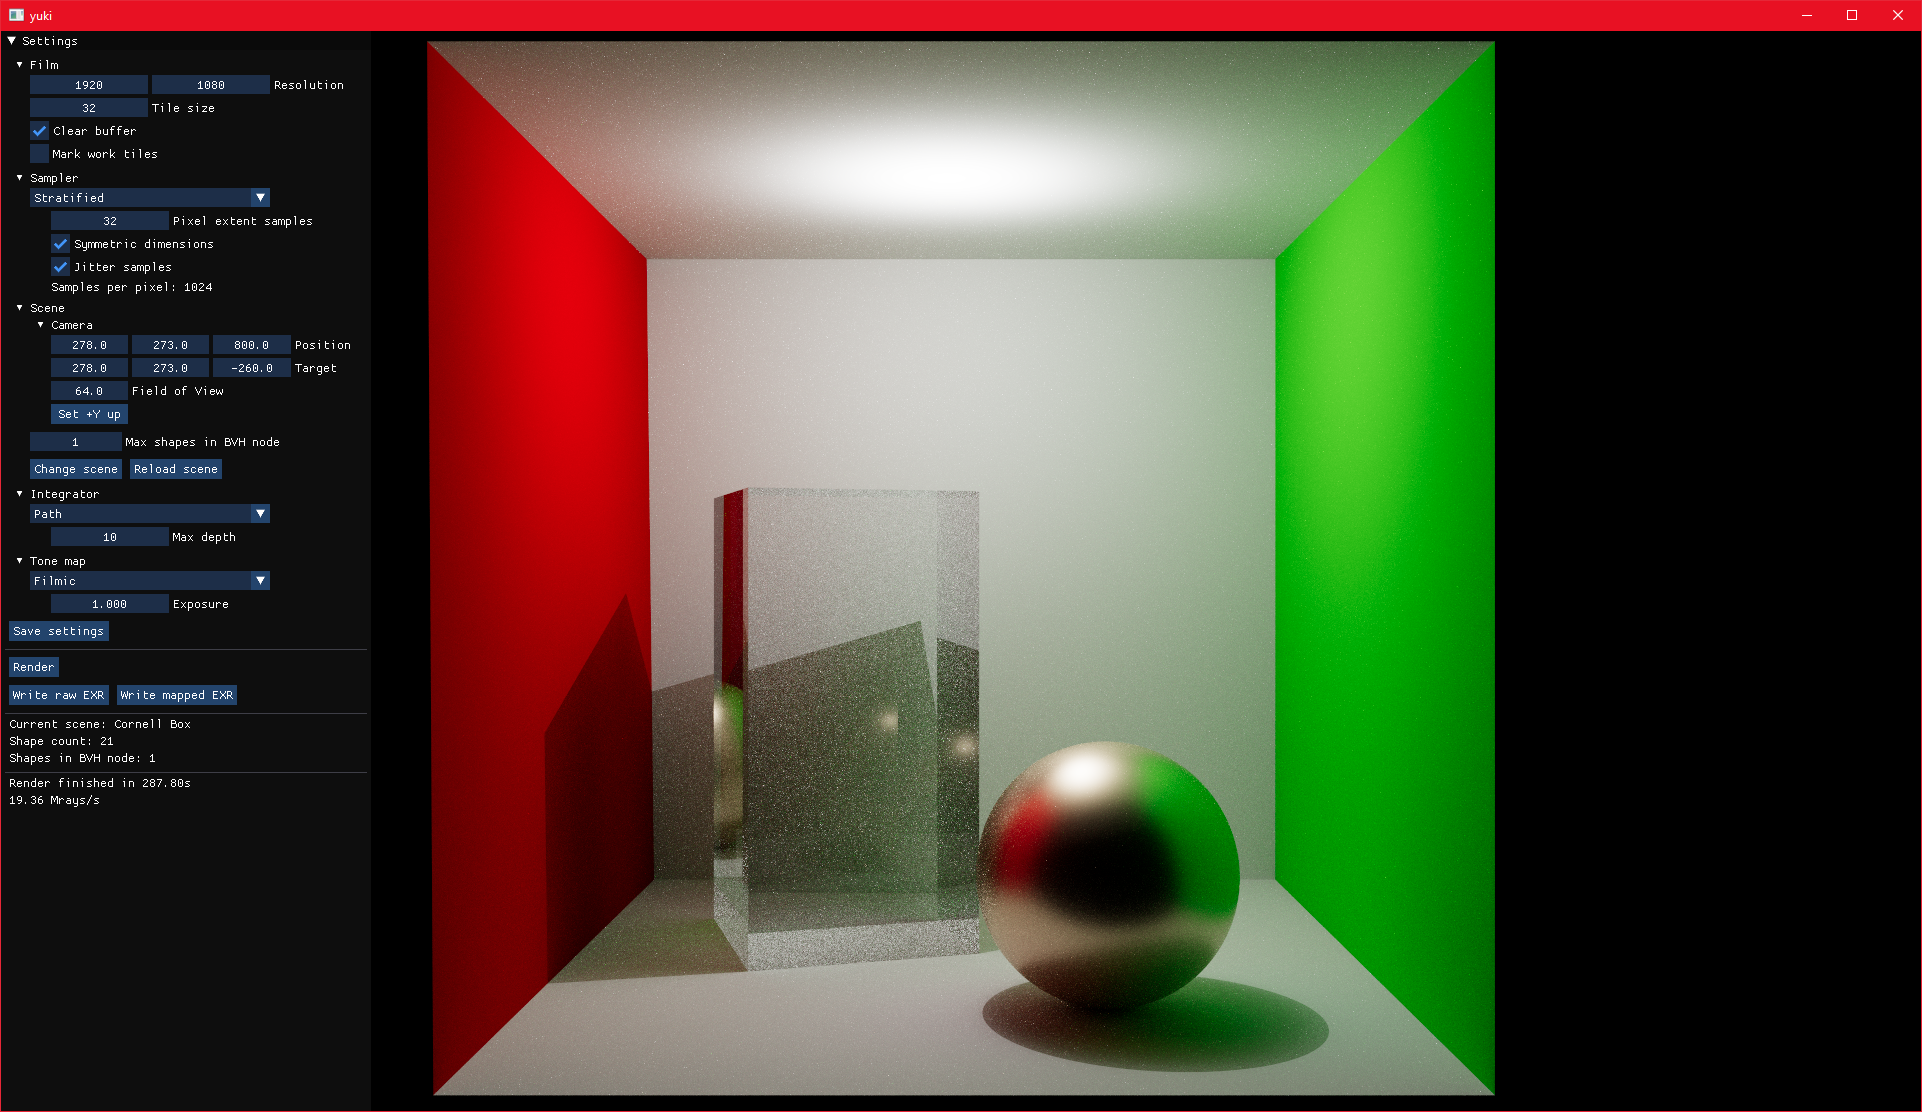
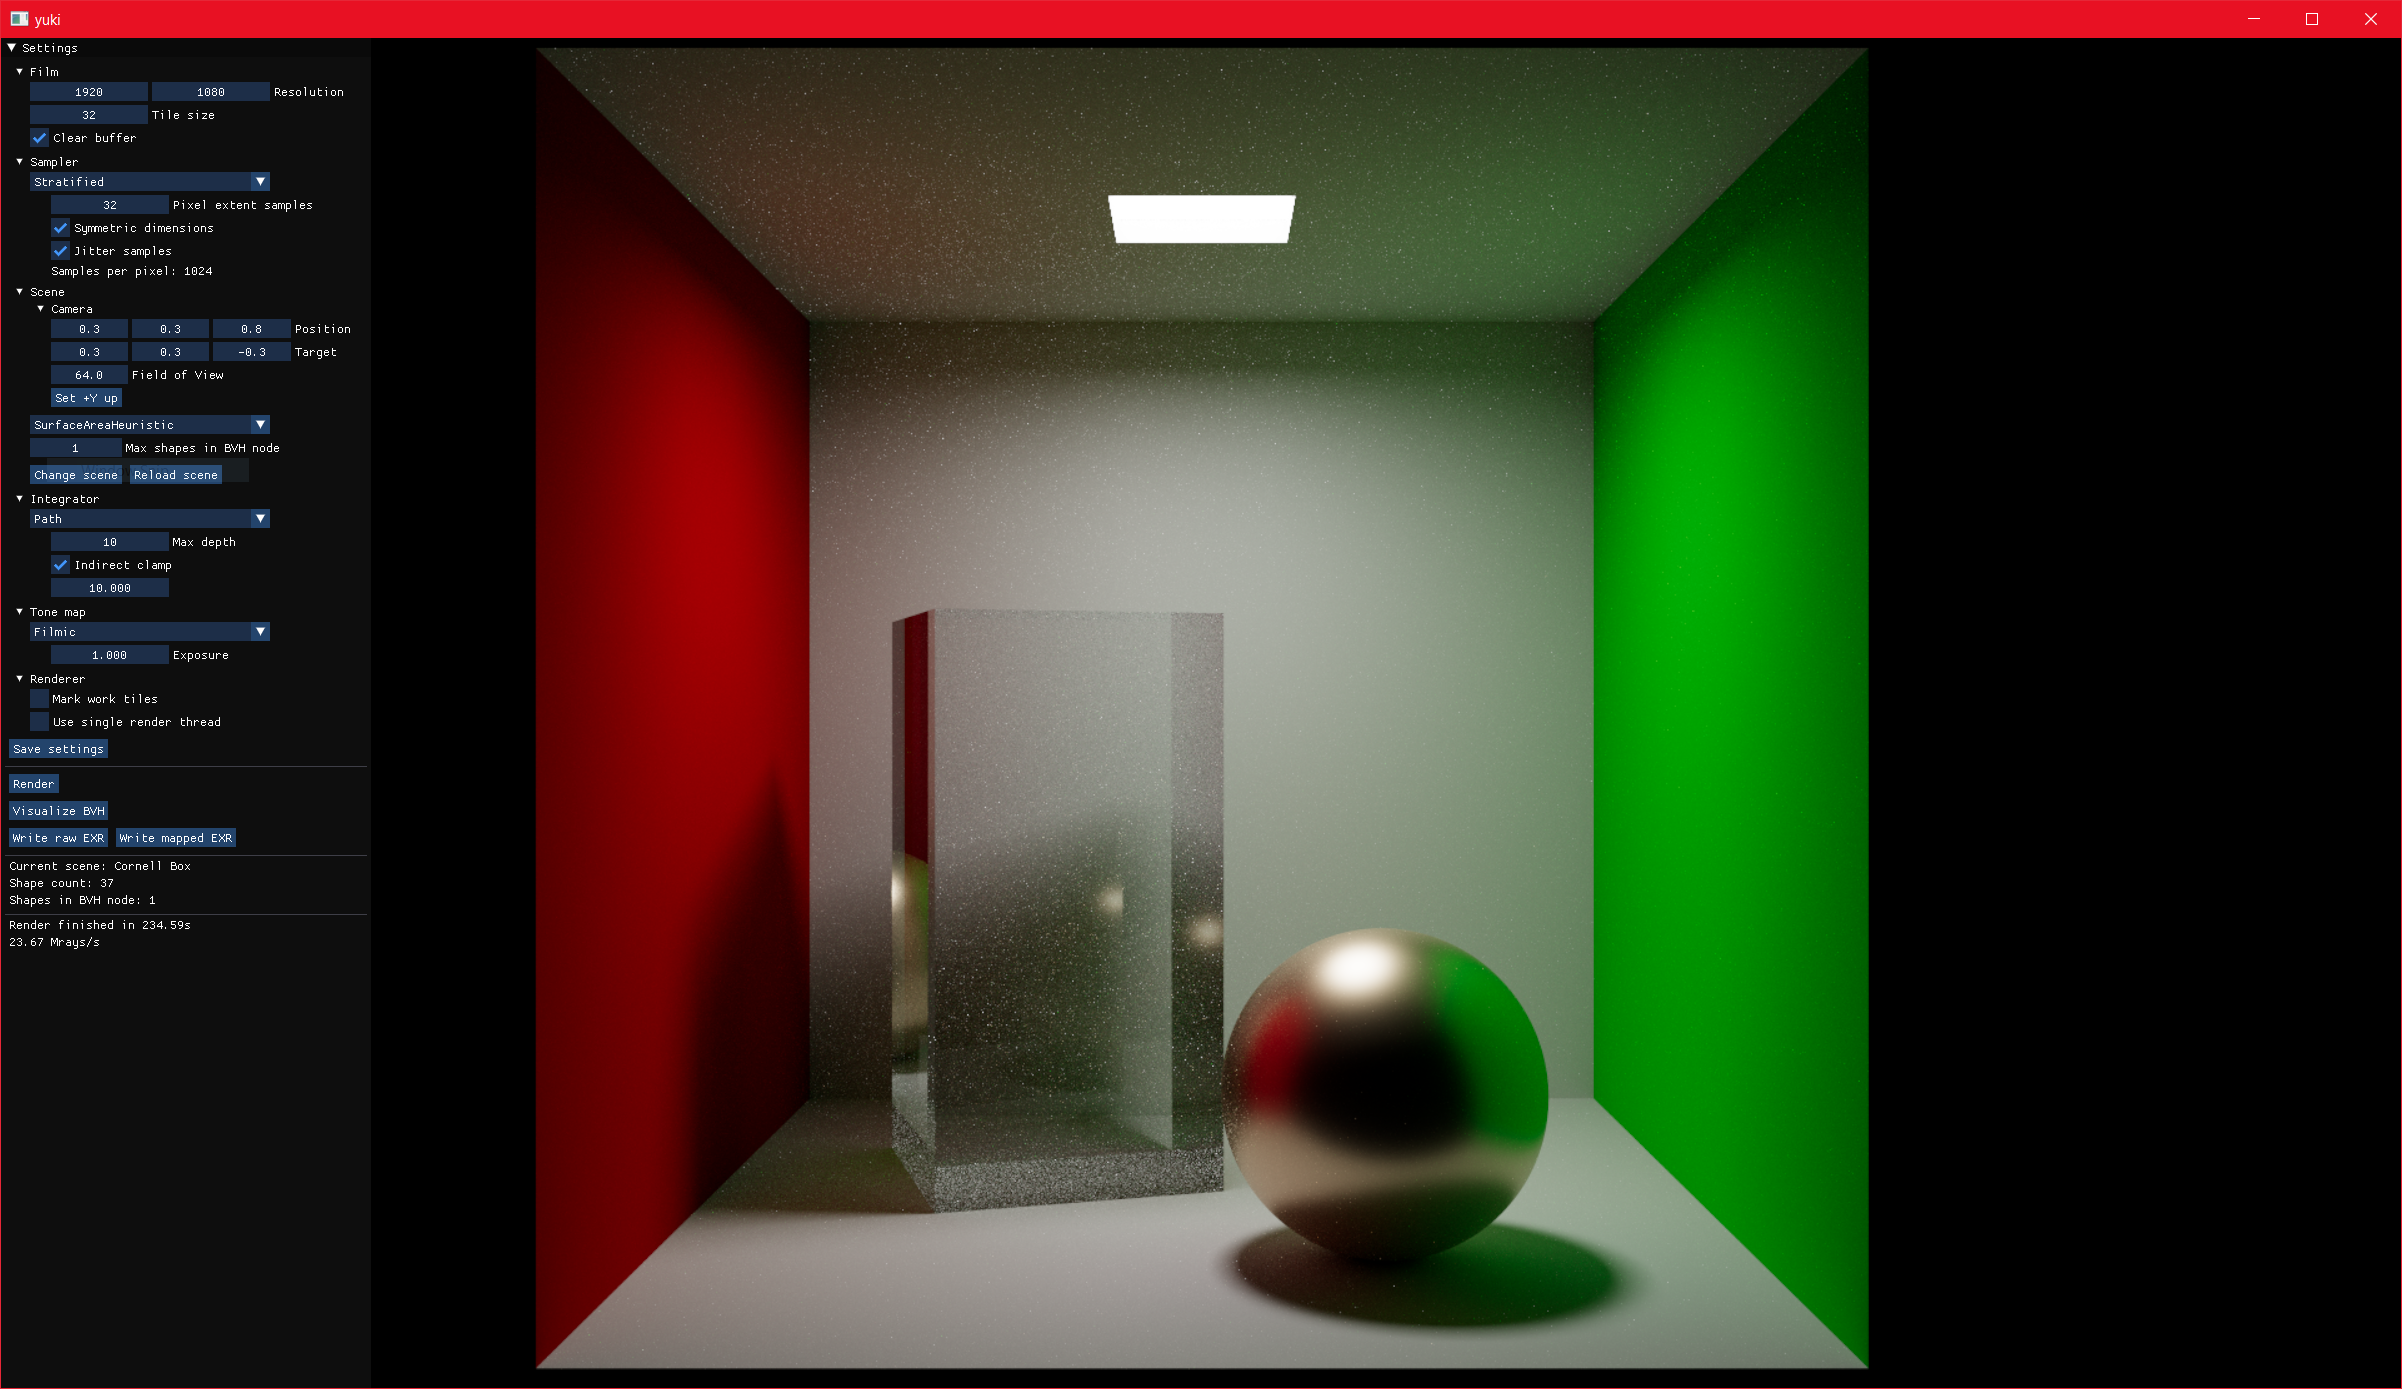
Update readme and screenshot

diff --git a/readme.md b/readme.md
@@ -45,9 +45,13 @@ cd yuki && cargo run --release
 - Tile-based rendering
   - Unwinding spiral pattern
     - Camera controls usable with longer frame times than if rendered row-by-row
-  - Active work tiles are marked
+  - Active work tiles can be marked
     - Not separately cleared when film clear is disabled to minimize lag
 - BVH
+  - Splits
+    - Surface area heuristic
+    - Middle
+    - Equal counts
 - Integrator abstraction
   - Whitted
     - Direct diffuse lighting
@@ -63,6 +67,7 @@ cd yuki && cargo run --release
 - Light types
   - Point
   - Spot
+  - Rectangular
 - Material types (pbrt's Material/BSDF/BxDF abstraction)
   - Matte
     - Lambertian for rough, Oren-Nayar otherwise
